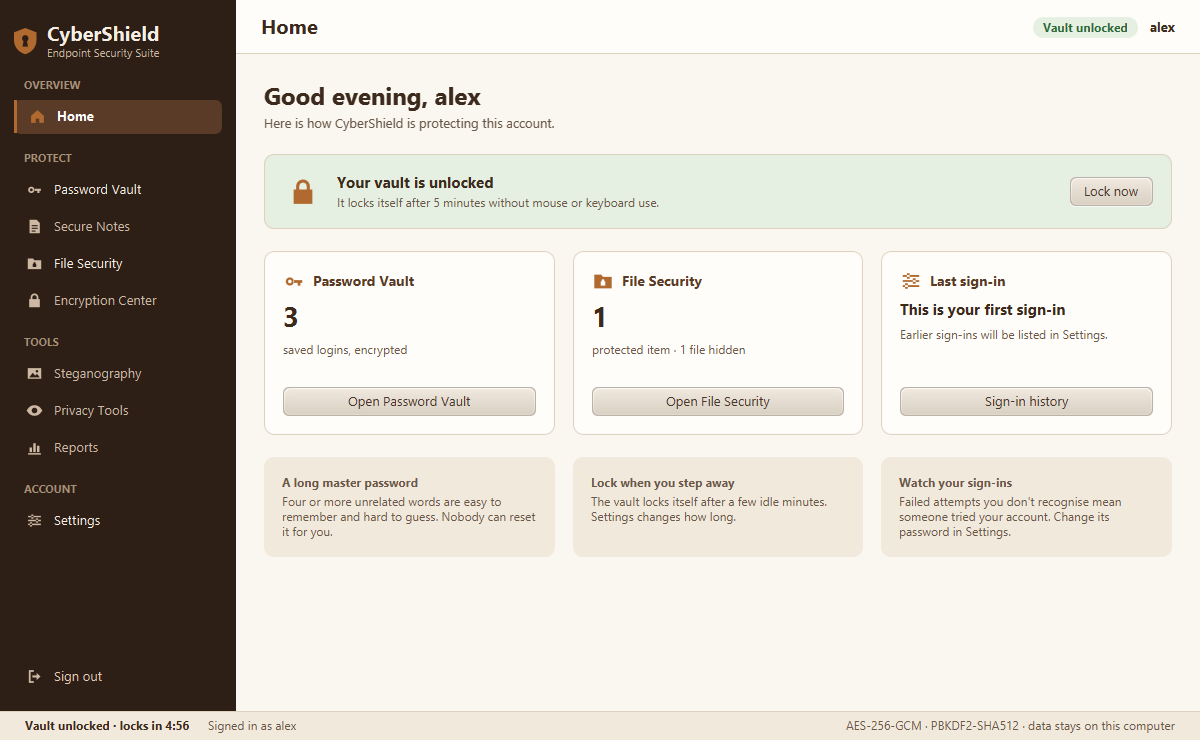
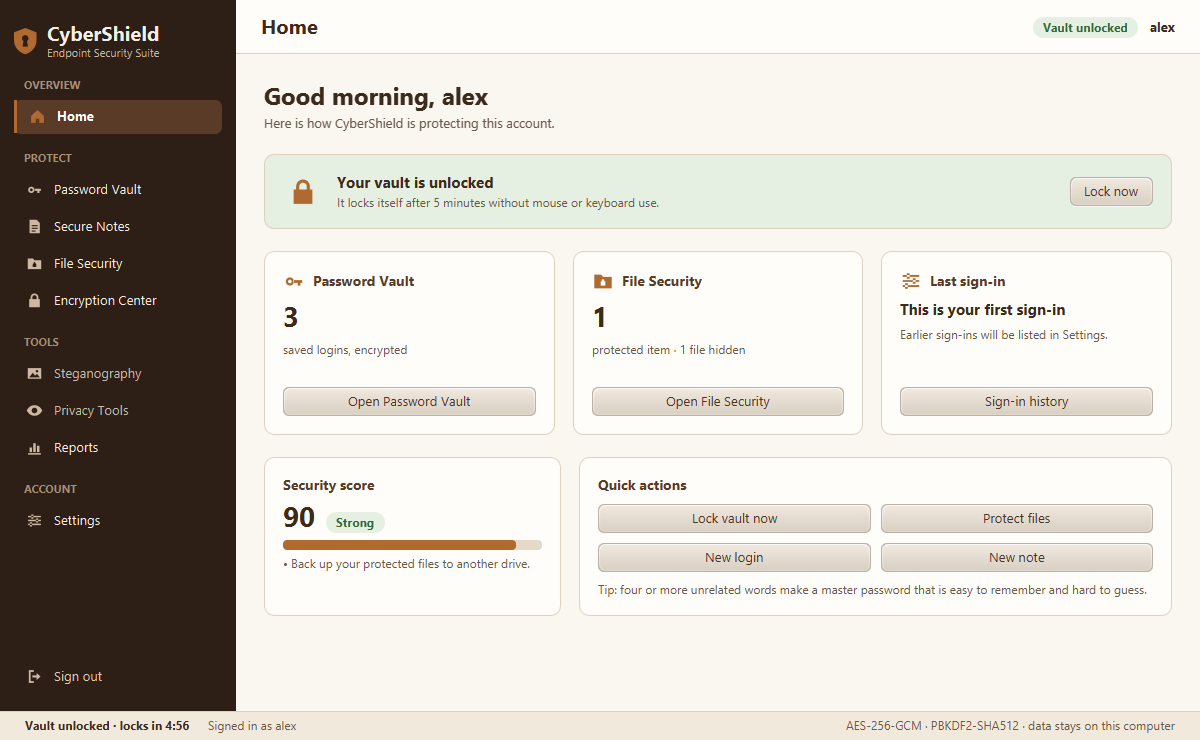
Docs: README, CHANGELOG and screenshots for Phases 2 and 3

diff --git a/README.md b/README.md
@@ -9,36 +9,60 @@ A Windows desktop app that keeps passwords and files private on a shared PC. Eve
 **Accounts**
 - Register and sign in. Mistakes show under the form, and Enter signs in.
 - After 5 failed attempts the account waits 30 seconds. The wait doubles with each further failure, up to 15 minutes. Unknown usernames get the same answers and waits, so they don't reveal which accounts exist.
-- Every sign-in attempt is recorded (time, computer, result, sign-out time) and listed in Settings.
+- Every sign-in attempt is recorded (time, computer, result, sign-out time), together with what that sign-in did: files opened, logins and notes changed, tools used. Names in it are encrypted with the vault key. It is all kept for 30 days, and clearing it sooner needs the master password.
+
+**Home**
+- The vault state, saved logins, protected files and the last sign-in at a glance.
+- A security score from 0 to 100 with the hints that would raise it most, and quick actions.
 
 **Vault (one per account)**
 - A master password opens the account's vault, and the vault locks itself after a few idle minutes.
 - Changing the master password is instant: only the lock on the vault key changes, not the data.
 
 **Password Vault**
-- Save, edit, delete and search logins.
-- Password generator and strength meter.
+- Save, edit, search and delete logins (Delete asks first). Every field is encrypted.
+- Categories and favourites, and sorting by favourites, name, last change or weakest first.
+- Password health marks weak, reused and year-old passwords.
+- Generator with length, digit and symbol options, and a strength meter.
 - Copy with an automatic clipboard clear (the delay is set in Settings).
+
+**Secure Notes**
+- Notes encrypted with the vault key, in a searchable list with an editor that saves as you type.
+- Copied text clears itself from the clipboard like passwords, and notes leave the screen when the vault locks.
 
 **File Security**
 - Pick files and folders from anywhere: browse, tick, drag and drop, or Add files / Add folder.
 - They are encrypted into a hidden store and the originals are wiped. Restore puts them back exactly: names, times and attributes.
-- A private viewer shows photos, text and code, PDFs, video and music inside CyberShield only, with copying blocked.
+- A private viewer shows photos, text and code, PDFs, video and music inside CyberShield only, with copying blocked. Photos turn left and right and follow the camera's orientation. AAC sound (most MP4 videos, M4A songs) plays even where JavaFX can't decode it.
+- Tools: check every stored file, back the store up to another drive and restore it, and rebuild a lost list from the store.
+
+**Encryption Center** (works without the vault)
+- Encrypt text or a file with a password, to share it. Files become `.cshield` files that open on any PC running CyberShield.
+- SHA-256 and SHA-512 checksums of text or files, compared with an expected value.
+- A password strength checker and generator.
+
+**Reports**
+- A security summary on screen and as a PDF: the score, password health, vault locks, protected files, 30 days of sign-ins and a count of everything done.
+- A report never contains passwords, note text, website names or file names. Saved reports are listed with Open, Show in folder and Delete.
 
 **Settings**
 - Auto-lock minutes and clipboard clear time, per account.
 - Change the account password or the master password.
-- Sign-in history.
+- Sign-in history, with what each sign-in did.
 
-**Coming next** (see the roadmap below): Secure Notes, Encryption Center, Steganography, Privacy Tools, Reports.
+**Coming next** (see the roadmap below): Steganography and Privacy Tools.
 
 ## Screenshots
 
 | Sign in | Password Vault |
 |---|---|
 | ![Sign in](docs/screenshots/sign-in.png) | ![Password Vault](docs/screenshots/password-vault.png) |
-| **File Security** | **Settings** |
-| ![File Security](docs/screenshots/file-security.png) | ![Settings](docs/screenshots/settings.png) |
+| **Secure Notes** | **Encryption Center** |
+| ![Secure Notes](docs/screenshots/secure-notes.png) | ![Encryption Center](docs/screenshots/encryption-center.png) |
+| **File Security** | **File Security tools** |
+| ![File Security](docs/screenshots/file-security.png) | ![File Security tools](docs/screenshots/file-security-tools.png) |
+| **Settings** | |
+| ![Settings](docs/screenshots/settings.png) | |
 
 ## Requirements
 
@@ -65,10 +89,12 @@ mvn test
 ```
 
 The tests cover:
-- encryption and the protected-file format, including tampering;
+- encryption and the protected-file format, including tampering, and the Encryption Center's shared text, files and checksums;
 - vaults: creating, unlocking, changing the master password, the PBKDF2 upgrade, and taking over the old shared vault;
-- sign-in, waits and history, and registration rules;
-- File Security: protect, restore, the safety rules, export and the viewer's decoding;
+- sign-in, waits, history and the activity log with its 30-day limit, and registration rules;
+- Password Vault and Secure Notes: every field encrypted, older logins converted, password health, privacy between accounts;
+- File Security: protect, restore, the safety rules, export, the viewer (AAC sound, photo turns, zoom), the check, recovery and backups;
+- the security score, and reports (no secrets in the PDF);
 - settings, and every screen opening.
 
 Each test uses its own database and file store in a temp folder, so the real data is never touched. `ScreensTest` opens the screens with JavaFX (in windows that are never shown), so it needs a desktop session.
@@ -86,6 +112,9 @@ mvn test -Dtest=ScreensTest -Dcybershield.snapshots=target/screens
 | Accounts, encrypted logins, settings, sign-in history | `database/cybershield.db` in the folder the app runs from |
 | Encrypted protected files (hidden and system folder) | `%LOCALAPPDATA%\CyberShield\FileVault` |
 | A copy of each vault's wrapped key, for recovery | `%LOCALAPPDATA%\CyberShield\FileVault\keys` |
+| What each sign-in did (names encrypted), removed after 30 days | the database |
+| Backups of protected files | the folder you choose, as `CyberShield backup <date and time>` |
+| Reports | the PDF wherever you save it; the list of them in the database |
 
 The database is not in git (see `.gitignore`).
 
@@ -105,11 +134,17 @@ The database is not in git (see `.gitignore`).
 - The header is authenticated with every block, so changed, reordered, moved or cut-off blocks are refused.
 - An original is replaced only after its encrypted copy has been written, flushed to disk and read back. It is then overwritten and deleted.
 
-**If the database is lost**, the master password and the key file in `keys\` still open the files. A recovery tool is on the roadmap.
+**If the database is lost**, the master password and the key file in `keys\` still open the files: File Security → Tools → Recover the list finds them in the store and lists them again.
+
+**Backups** copy the encrypted files as they are, with an encrypted list of them and the vault's key file. Nothing is decrypted, so only the master password opens a backup.
+
+**Shared encryption** (Encryption Center) uses AES-256-GCM with a key derived from the chosen password (PBKDF2-HMAC-SHA512, 210,000 rounds, random salt). Files are sealed in 1 MiB chunks, so a changed or cut-off file is refused, and a wrong password leaves nothing behind.
 
 **Limits**
 - Overwriting a file doesn't guarantee it is gone from an SSD.
 - Video playback uses an internal JavaFX class, so re-test it when JavaFX is upgraded.
+- AAC sound is decoded in memory. Over about 50 minutes it is too big: such a video plays muted, with a note, and such a song needs Export a copy.
+- A report is a plain PDF on purpose: it holds no secrets.
 
 ### Upgrading from v1
 
@@ -128,12 +163,14 @@ src/main/java/com/cybershield/
   app/          entry point
   config/       paths and constants
   database/     schema set-up and upgrades
-  dao/          users, sign-in history, settings
-  encryption/   AES-GCM, PBKDF2, the CSF1 file format
-  files/        File Security: protect, hide, restore, view
-  password/     Password Vault data
+  dao/          users, sign-in history, activity, settings
+  encryption/   AES-GCM, PBKDF2, the CSF1 file format, shared files, checksums
+  files/        File Security: protect, hide, restore, check, back up, recover
+  notes/        Secure Notes data
+  password/     Password Vault data and password health
+  reports/      security reports and their PDF
   security/     BCrypt, session
-  services/     sign-in and registration, the open vault key
+  services/     sign-in and registration, activity log, security score, the open vault key
   vault/        per-account vaults, auto-lock, key backup
   ui/           screens (controllers) and the file viewer
   utils/        validation, generator, formatting
@@ -150,9 +187,9 @@ src/test/java/  JUnit tests
 |---|---|---|---|
 | 0 · Stabilise | 1–2 | Tests, README, SessionManager fix, header contrast | Done |
 | 1 · Accounts & Settings | 2–6 | Registration, sign-in history and waits, one vault per account, Settings, master password change | Done |
-| 2 · Core modules | 6–11 | Secure Notes, every Password Vault field encrypted, home screen score | Next |
-| 3 · Tools & reports | 11–15 | Encryption Center, PDF reports, File Security backup and recovery | |
-| 4 · Extras | 16–20 | Steganography, Privacy Tools | |
+| 2 · Core modules | 6–11 | Secure Notes, every Password Vault field encrypted, home screen score | Done |
+| 3 · Tools & reports | 11–15 | Encryption Center, PDF reports, File Security backup and recovery | Done |
+| 4 · Extras | 16–20 | Steganography, Privacy Tools | Next |
 | 5 · Polish & release | 20–21 | Light and dark themes, installer, automatic builds | |
 
 ## License

diff --git a/CHANGELOG.md b/CHANGELOG.md
@@ -1,5 +1,39 @@
 # Changelog
 
+## Unreleased: Phases 2 and 3
+
+### Added
+- **Secure Notes:** notes encrypted with the vault key (title and text) in a searchable list, with an editor that saves a second after you stop typing. Delete asks first. Copied text clears itself from the clipboard after the time set in Settings. Notes leave the screen when the vault locks.
+- **Password Vault:**
+  - every field is encrypted (website, username, password, notes, category); logins saved before are converted the first time the vault opens;
+  - Delete asks first;
+  - categories and favourites, sorting (favourites first, A–Z, recently changed, weakest first) and a "Needs attention" filter;
+  - password health marks weak, reused and year-old passwords;
+  - the generator has length, digit and symbol options.
+- **Home screen:** a security score from 0 to 100 with the hints worth most, and quick actions: lock now, protect files, new login, new note.
+- **Encryption Center** (no vault needed):
+  - encrypt text or files with a password, to share them; files become portable `.cshield` files;
+  - SHA-256 and SHA-512 checksums of text or files, compared with an expected value;
+  - a password strength checker and generator.
+- **File Security tools:**
+  - check every protected file;
+  - back the store up to another drive (encrypted; the master password opens it) and restore from it;
+  - rebuild a lost list from the store.
+  - A running job's progress shows again after leaving the screen and coming back.
+- **Reports:** a security summary on screen and as a PDF: score, password health, vault locks, protected files with the last check and backup, 30 days of sign-ins, and a count of everything done. It holds no passwords, note text, website names or file names. Saved reports are listed per account with Open, Show in folder and Delete (to the Recycle Bin).
+- **What each sign-in did:** files opened, logins and notes changed, tools used, listed under each sign-in in Settings. Names are encrypted with the vault key. Activity and sign-ins older than 30 days are removed automatically, and clearing them sooner needs the master password.
+- **Photo rotation:** turn photos left and right in the viewer; photos follow the camera's orientation.
+- **Tests:** 130 JUnit tests now.
+
+### Fixed
+- **Video and music sound:** MP4 videos and M4A songs with AAC sound now play on PCs where JavaFX can't decode AAC. The sound is decoded in Java (JAAD) and kept in step with the picture. Sound over about 50 minutes is too big to decode in memory: such a video plays muted, with a note.
+- **Shaking zoom:** a photo fitted to the window no longer shakes at some zoom levels (seen between 14% and 17%). The scroll bars were appearing and disappearing in a loop.
+- **Cut-off lines:** wrapped hints in Settings and Reports now show in full.
+
+### Changed
+- **Database upgrades on start:** a new `activity_log` table; `password_entries` gets `category`, `favourite` and `fields_encrypted`; `reports` gets `user_id`.
+- **New library:** JAAD 0.8.8, an AAC decoder (public domain).
+
 ## Unreleased: Phase 0 and Phase 1
 
 ### Added
